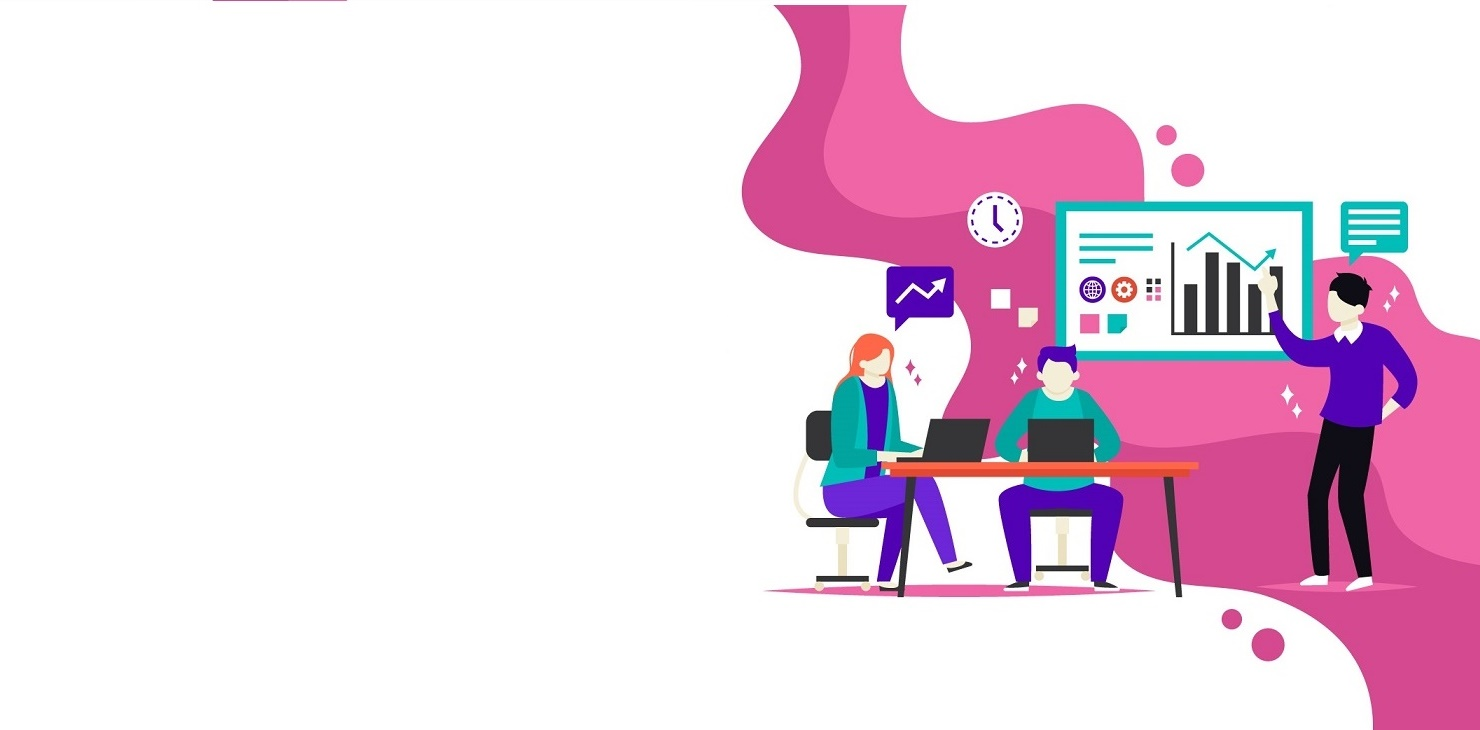
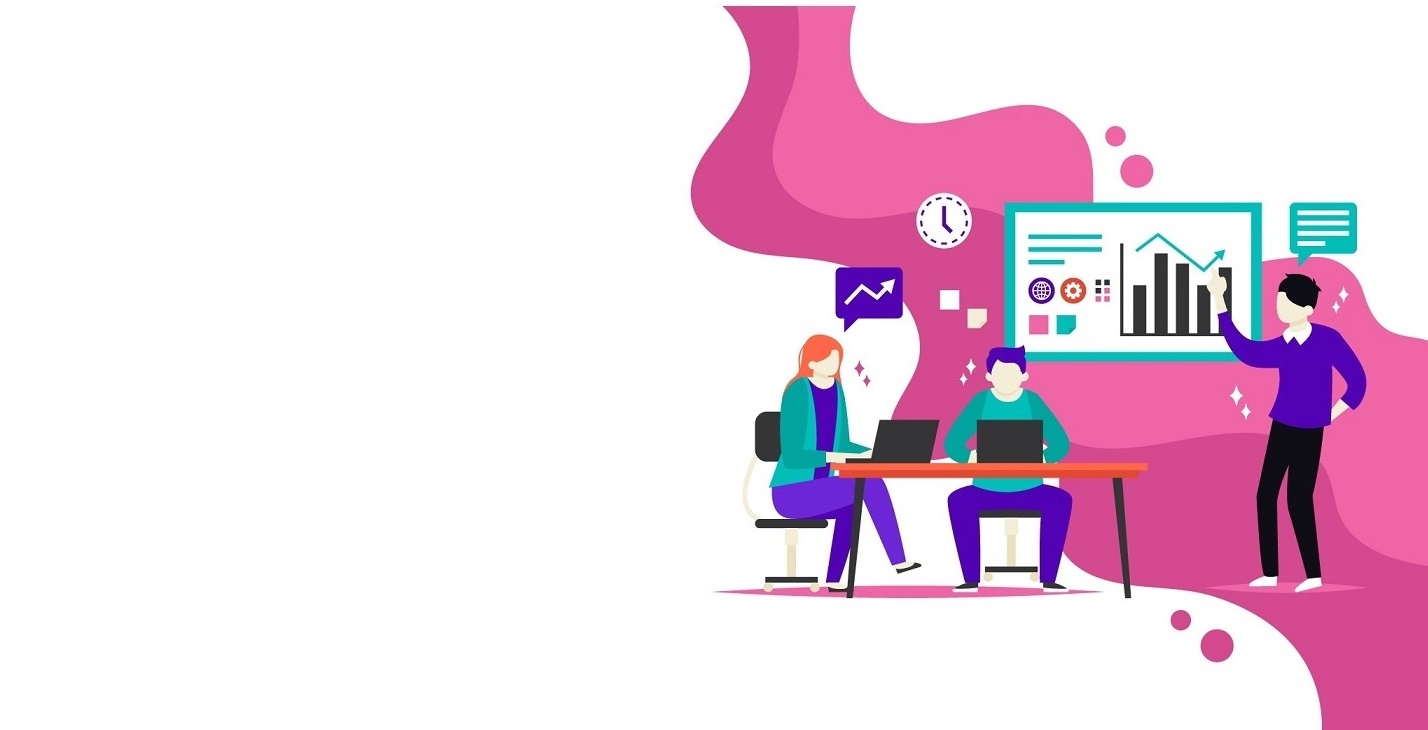
grafico e rodape

Changed region(s): [[0.4622, 0.0, 0.9552, 0.9342], [0.9244, 0.9644, 0.9552, 1.0], [0.7087, 0.1205, 0.7395, 0.1507]]

diff --git a/src/style.css b/src/style.css
@@ -1,18 +1,18 @@
 body {
     margin: 0%;
     background-image: url("imagens/Home.jpg");
+    padding: 0%;
+    position:absolute;
+    
+    
     
 
 }
 
-.main{
-display: flex;
-justify-content: column;
-text-align: center;
+main{
 margin: auto;
-padding: 1%;
-
-}
+min-height: 500px;
+} 
 
 .title {
     display: flex;
@@ -21,6 +21,12 @@ padding: 1%;
     margin: auto;
     align-items: center;
     
+}
+
+#container{
+    background-color: white;
+    margin:none;
+
 }
 
 .conteudo-tab {
@@ -38,7 +44,7 @@ padding: 1%;
 }
 
 .title{
-    padding-right: 80%;
+    padding-right: 50%;
     margin: 5%;
     font-family: 'Montserrat', sans-serif;
 }
@@ -75,6 +81,7 @@ h3{
 }
 .conteudo-grafic{
   background-color: white; 
+  
 }
 #conteudo-brasil, #conteudo-chile, #conteudo-mexico, #conteudo-peru, #conteudoam-ordem, #conteudo-brasil-am{
   width: 50%;
@@ -97,7 +104,7 @@ h3{
 }
 .education{
     font-family: 'Montserrat', sans-serif;
-    padding: 8% 50% 8% 1%;
+    padding: 10% 50% 0% 10%;
     font-size: 50px;
     color: rgb(79,2,176);
 
@@ -108,4 +115,86 @@ h3{
     padding: 1% 50% 8% 8%;
 
     
+}
+
+
+
+/* Roda pé */
+
+.footer{
+	height: 100%;
+    display: flex;
+	/* align-items: center; */
+	background-color: #212529;
+    color: white;
+    justify-content:space-evenly;
+    /* position: fixed; */
+    margin: auto;
+
+    
+}
+
+.container-footer{
+	display: flex;
+    align-items: flex-start;
+    
+     
+}
+
+.footer div{
+	width: 300px;
+	margin: 0 32px 0;
+	display: flex;
+	justify-content: center;
+	flex-direction: column;
+	text-align: center;
+}
+
+.footer p{
+	margin-top: 35px;
+}
+
+.footer ul{
+	margin-top: 35px;
+	padding: 0;
+	display: flex;
+	justify-content: space-around;
+}
+
+.footer li{
+	width: 50px;
+	height: 50px;
+	border: 2px solid white;
+	border-radius: 50%;
+	display: flex;
+	justify-content: center;
+	align-items: center;
+}
+
+.footer li a{
+    color: white;
+}
+
+
+
+.footer li:hover{
+	background-color: white;
+	transition: 0.5s;
+    cursor: pointer;
+    
+}
+
+
+.copyright{
+	display: flex;
+	justify-content: center;
+	background-color: rgb(213, 74, 142);
+    color: white;
+    
+}
+
+#home{
+height: 100%;
+min-height: 5px;
+
 }

diff --git a/src/index.html b/src/index.html
@@ -7,6 +7,9 @@
     <link rel="stylesheet" href="style.css" />
     <link href="https://fonts.googleapis.com/css?family=Montserrat:700" rel="stylesheet">
     <link href="https://fonts.googleapis.com/css?family=Lato:300" rel="stylesheet">
+    <link rel="stylesheet" href="https://use.fontawesome.com/releases/v5.7.2/css/all.css" integrity="sha384-fnmOCqbTlWIlj8LyTjo7mOUStjsKC4pOpQbqyi7RrhN7udi9RwhKkMHpvLbHG9Sr" crossorigin="anonymous">
+
+
 
 </head>
 
@@ -268,6 +271,41 @@
     <script src="https://code.highcharts.com/modules/export-data.js"></script>
     <script src="./data/worldbank/worldbank.js"></script>
     <script src="main.js"></script>
+
+
+
+    <footer class="footer">
+        
+		<section class="container-footer">
+			<div>
+				<h3 class="font-montserrat">LOCALIZAÇÃO</h3>
+				<p class="font-lato">3481 Melrose Place<br>Beverly Hills, CA 90210</p>
+			</div>
+			<div>
+				<h3 class="font-montserrat">REDES SOCIAIS</h3>
+				<ul>
+					<li><a href="#"><i class="fab fa-facebook-f"></i></a></li>
+					<li><a href="#"><i class="fab fa-google-plus-g"></i></a></li>
+					<li><a href="#"><i class="fab fa-twitter"></i></a></li>
+					<li><a href="#"><i class="fab fa-linkedin-in"></i></a></li>
+					<li><a href="#"><i class="fab fa-dribbble"></i></a></li>
+				</ul>
+			</div>
+			<div>
+				<h3 class="font-montserrat">SOBRE</h3>
+				<p class="footer-link font-lato">Educam criado para informar dados de educação na Amarica Latina  <a href="#">EDUCAM</a>.</p>
+				</div>
+			</section>	
+		</footer>
+		<label class="copyright">
+			<p class="font-lato">Copyright © Your Website 2019</p>
+		</label>
+
+
+
+
+
+
 
 </body>
 
